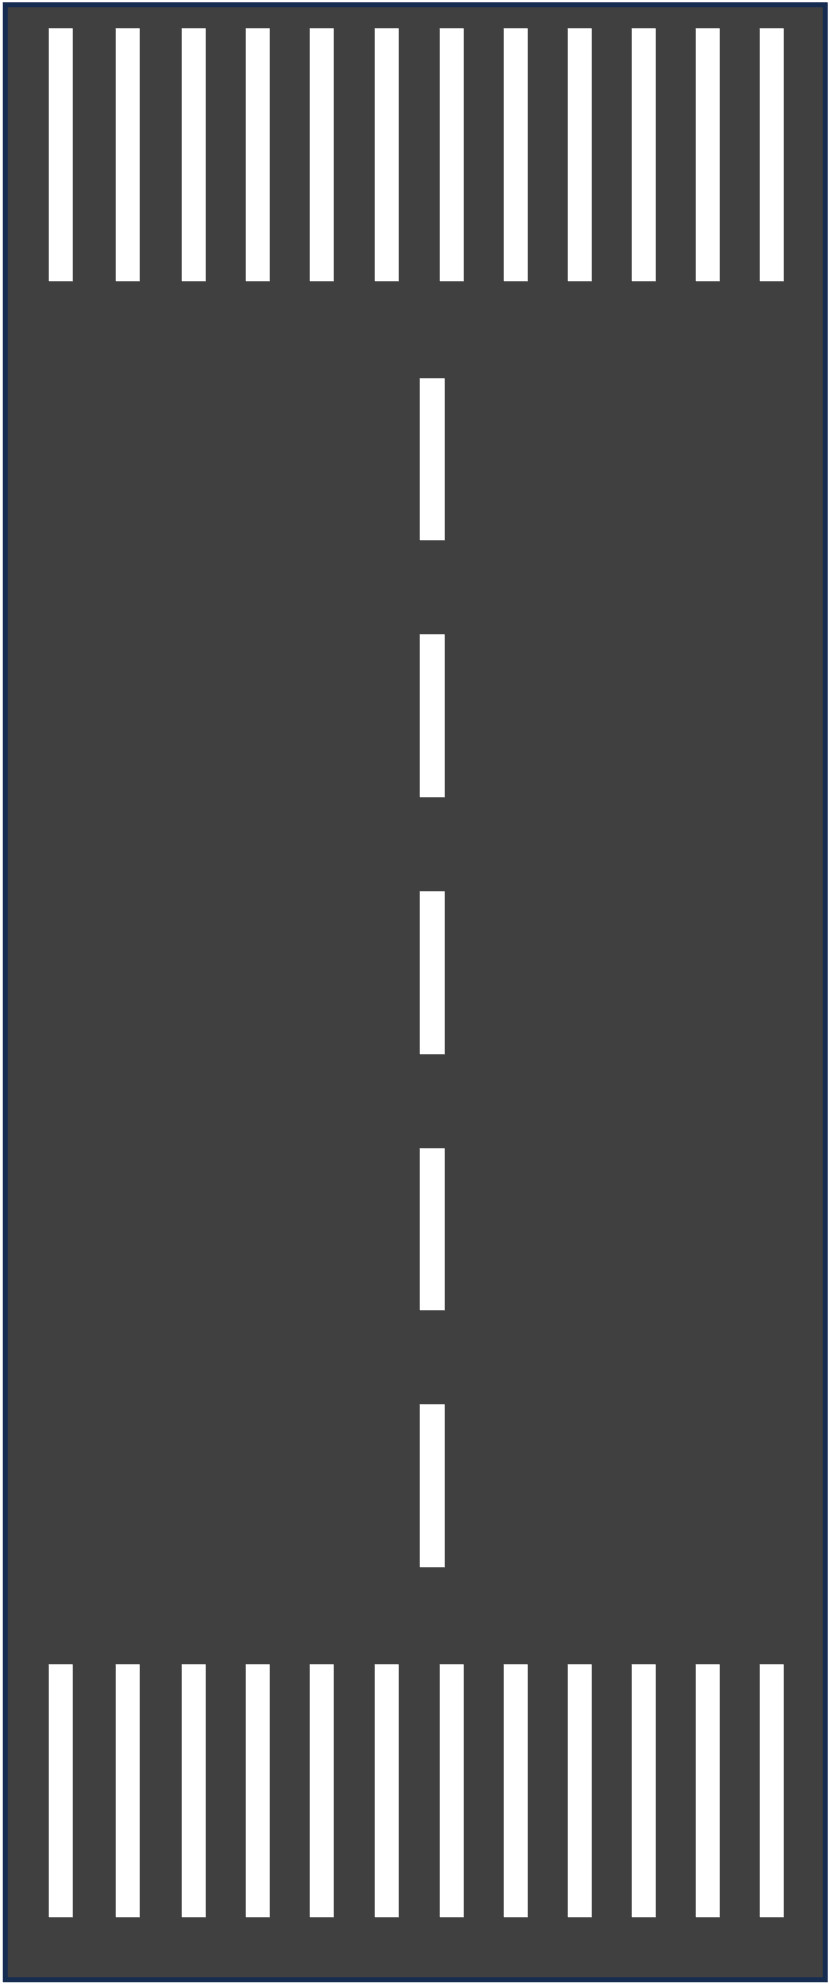
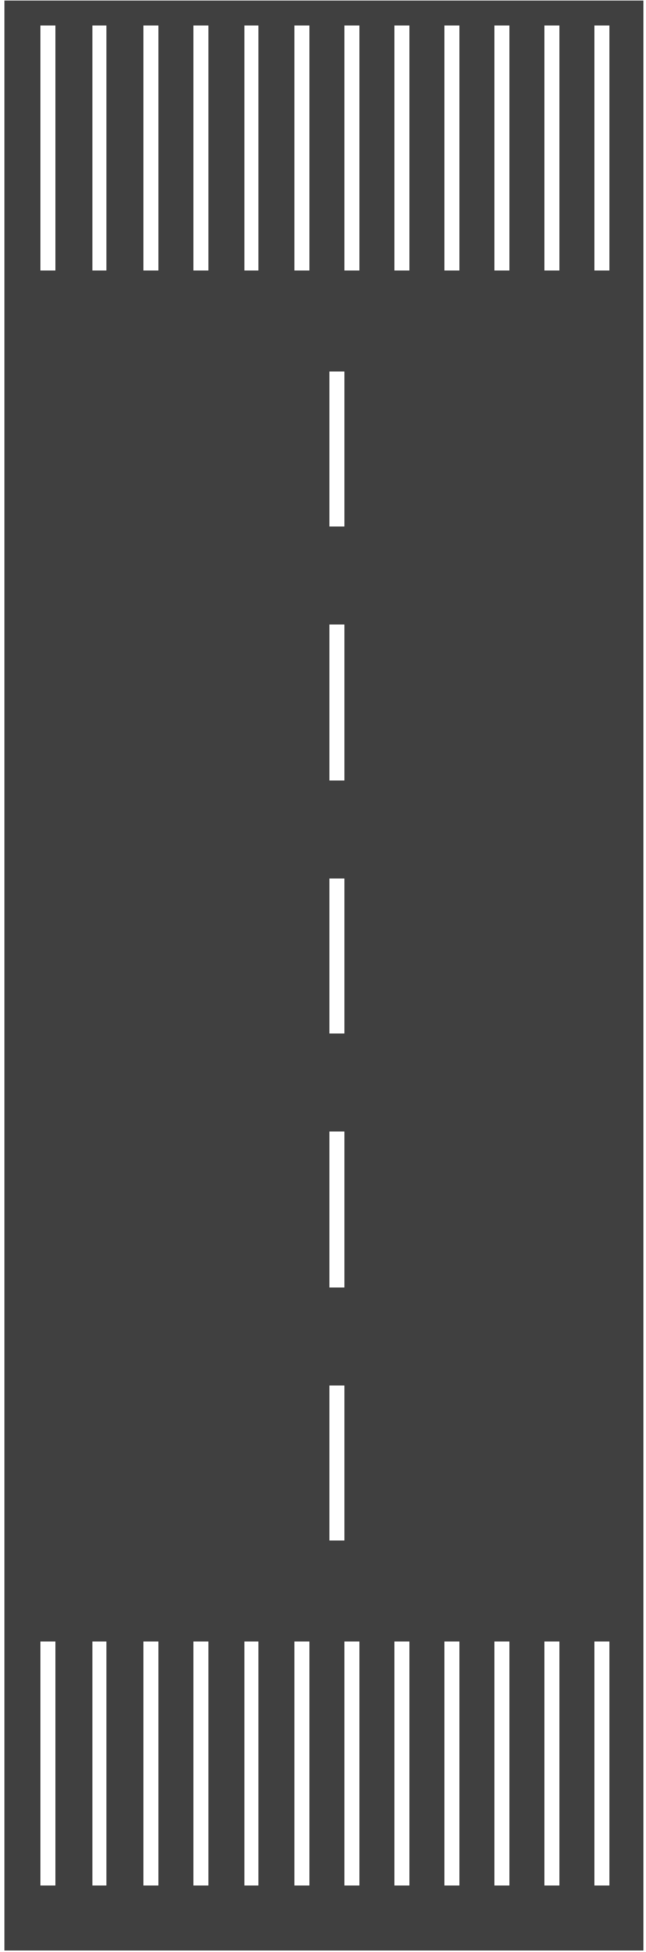
Display update

diff --git a/src/main/resources/style/all.css b/src/main/resources/style/all.css
@@ -1,4 +1,4 @@
-.sideView-background {
+.sideView-background, .topView-background {
     -fx-background-color: #BDD7EE; /* Light blue background */
 }
 

diff --git a/src/main/java/uk/ac/soton/comp2211/runwayredeclaration/scene/SideViewScene.java b/src/main/java/uk/ac/soton/comp2211/runwayredeclaration/scene/SideViewScene.java
@@ -1,9 +1,11 @@
 package uk.ac.soton.comp2211.runwayredeclaration.scene;
 
+import javafx.geometry.Insets;
 import javafx.geometry.Pos;
 import javafx.scene.control.Button;
 import javafx.scene.image.Image;
 import javafx.scene.image.ImageView;
+import javafx.scene.paint.Color;
 import org.apache.logging.log4j.LogManager;
 import org.apache.logging.log4j.Logger;
 import uk.ac.soton.comp2211.runwayredeclaration.ui.HomePane;
@@ -54,16 +56,13 @@ public class SideViewScene extends BaseScene{
         sideViewPane.getChildren().add(mainPane);
 
 
-                //Awful title
-        var title = new Text("Side View");
-
 
         VBox left_box = new VBox();
         left_box.getStyleClass().add("left-box");
         mainPane.setLeft(left_box);
         BorderPane.setAlignment(left_box, Pos.CENTER);
 
-        VBox right_box = new VBox();
+        right_box = new VBox();
         right_box.getStyleClass().add("right-box");
         mainPane.setRight(right_box);
         BorderPane.setAlignment(right_box, Pos.CENTER);
@@ -113,9 +112,33 @@ public class SideViewScene extends BaseScene{
 
         // Set the style class for the HBox
         menuHBox.getStyleClass().add("menu-hbox");
-
-        mainPane.setTop(menuHBox);
         BorderPane.setAlignment(menuHBox, Pos.CENTER);
+        mainPane.setTop(menuHBox);
+
+
+
+
+        StackPane displayStackPane = new StackPane();
+        mainPane.setCenter(displayStackPane);
+
+        BorderPane displayBorderPane = new BorderPane();
+        displayStackPane.getChildren().add(displayBorderPane);
+
+        Pane bluePane = new Pane();
+        bluePane.setMaxWidth(Double.MAX_VALUE);
+        bluePane.setMaxHeight(Double.MAX_VALUE);
+        bluePane.getStyleClass().add("sideView-background");
+        displayBorderPane.setTop(bluePane);
+
+        Pane groundPane = new Pane();
+        groundPane.setMaxWidth(Double.MAX_VALUE);
+        groundPane.setMaxHeight(Double.MAX_VALUE);
+        groundPane.setBackground(new Background(new BackgroundFill(Color.web("#A9D18E"), CornerRadii.EMPTY, Insets.EMPTY)));
+        displayBorderPane.setBottom(groundPane);
+
+
+
+
 
 
         this.initialise();

diff --git a/src/main/java/uk/ac/soton/comp2211/runwayredeclaration/ui/HomeWindow.java b/src/main/java/uk/ac/soton/comp2211/runwayredeclaration/ui/HomeWindow.java
@@ -43,7 +43,7 @@ public class HomeWindow {
     }
 
     public void startHome() {
-        loadScene(new TopViewScene(this));
+        loadScene(new SideViewScene(this));
     }
 
     /**
